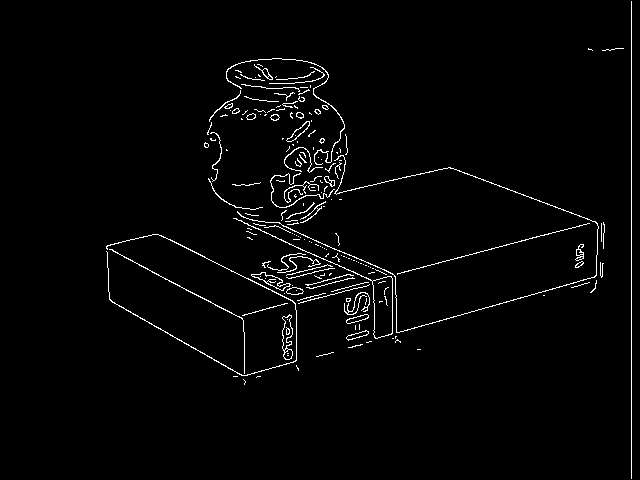
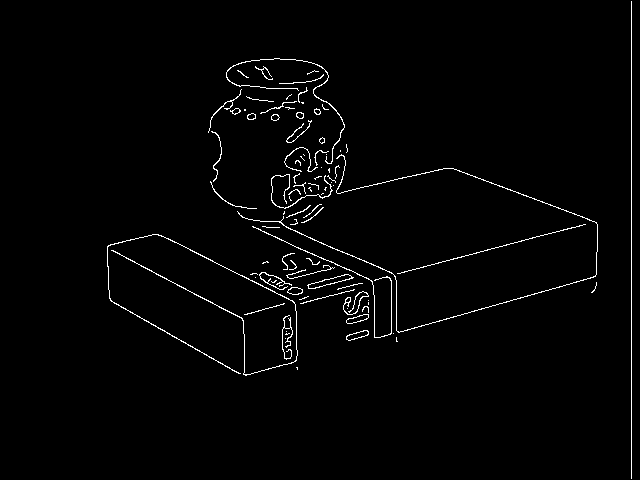
[tested] decent result

diff --git a/hw3_starter/Python/runHw3.py b/hw3_starter/Python/runHw3.py
@@ -9,8 +9,9 @@ from runTests import run_tests
 from skimage import filters, feature
 import matplotlib.pyplot as plt
 
-THETA_BIN_WID = 2 
-RHO_BIN_WID = 3
+THETA_BIN_WID = 1
+RHO_BIN_WID = 1
+hough_threshold = [60, 50, 50];
 
 def runHw3():
     # runHw3 is the "main" interface that lets you execute all the 
@@ -68,7 +69,11 @@ def challenge1a():
         gray_img = img.convert('L')
         # Apply edge detection to grayscale image
         gray_img = np.array(gray_img)
-        edge_img = feature.canny(gray_img, sigma=1, low_threshold=20, high_threshold=23)
+        # Sobel edge detection
+        # thresh = 0.05
+        # edge_img = filters.sobel(gray_img) > thresh
+        # edge_img = feature.canny(gray_img, sigma=1, low_threshold=20, high_threshold=23)
+        edge_img = feature.canny(gray_img, sigma=2, low_threshold=0.08*np.max(gray_img), high_threshold=0.1*np.max(gray_img))
         
         # Save the edge detected image
         edge_img = Image.fromarray((edge_img * 255).astype(np.uint8))
@@ -81,35 +86,79 @@ def challenge1b():
 
     img_list = ['hough_1.png', 'hough_2.png', 'hough_3.png']
 
-    theta_num_bins = int(180/THETA_BIN_WID )
-
+    theta_num_bins = int(360/THETA_BIN_WID )
+    
+    def scale_min_max(image, part_size):
+        a, b = part_size
+        # Calculate the number of parts along each dimension
+        num_parts_x = image.shape[0] // a
+        num_parts_y = image.shape[1] // b
+        
+        # Initialize the scaled image
+        scaled_image = np.zeros_like(image)
+        
+        for i in range(num_parts_x):
+            for j in range(num_parts_y):
+                # Extract the current part
+                part = image[i*a:(i+1)*a, j*b:(j+1)*b]
+                
+                # Find the min and max values in the current part
+                min_val = np.min(part)
+                max_val = np.max(part)
+                
+                # Avoid division by zero in case min_val == max_val
+                if min_val == max_val:
+                    scaled_part = np.zeros_like(part)
+                else:
+                    # Scale the part
+                    scaled_part = (part - min_val) / (max_val - min_val) * 255
+                
+                # Place the scaled part back into the scaled image
+                scaled_image[i*a:(i+1)*a, j*b:(j+1)*b] = scaled_part
+        
+        return scaled_image
+    
     for i, fn in enumerate(img_list):
         # Load the edge image from challenge1a
         img = Image.open(f'outputs/edge_{fn}')
         img = np.array(img.convert('L'))  # Convert the image to grayscale
         rho_num_bins = int((np.shape(img)[0]**2 + np.shape(img)[1]**2)**(0.5)/RHO_BIN_WID)
         hough_accumulator = generateHoughAccumulator(img, theta_num_bins, rho_num_bins)
-
+        
         # We'd like to save the hough accumulator array as an image 
         # to visualize it. The values should be between 0 and 255 and 
         # the data type should be uint8.
+
+        h2 = np.where(hough_accumulator > hough_threshold[i], hough_accumulator, 0)
+        # h2 = hough_accumulator > hough_threshold[i]
+        # h2  = h2*250
+        
         hough_accumulator = Image.fromarray(hough_accumulator.astype(np.uint8))
         hough_accumulator.save(f'outputs/accumulator_{fn}')
+       
+        part_size = (int(h2.shape[0]/40),int(h2.shape[1]/20))  # Size of the parts to split into
+        
+        scaled_image = scale_min_max(h2, part_size)
+        
+        scaled_image = Image.fromarray(scaled_image.astype(np.uint8))
+        scaled_image.save(f'outputs/h2_{fn}')
 
 def challenge1c():
     from hw3_challenge1 import lineFinder
 
     img_list = ['hough_1.png', 'hough_2.png', 'hough_3.png']
 
-    hough_threshold = [110, 100, 150];
+    hough_threshold = [252, 230, 230];
 
     for i, fn in enumerate(img_list):
         orig_img = Image.open(f"data/{fn}")
         orig_img = np.array(orig_img.convert('L'))  
 
-        hough_img = Image.open(f'outputs/accumulator_{fn}')
+        # hough_img = Image.open(f'outputs/accumulator_{fn}')        
+        hough_img = Image.open(f'outputs/h2_{fn}')
         hough_img = np.array(hough_img.convert('L'))
-
+        
+        
         line_img = lineFinder(orig_img, hough_img, hough_threshold[i])
         line_img.save(f'outputs/line_{fn}')
 
@@ -126,7 +175,8 @@ def challenge1d():
         edge_img = Image.open(f'outputs/edge_{fn}')
         edge_img = np.array(edge_img.convert('L'))  # Convert the image to grayscale
         
-        hough_img = Image.open(f'outputs/accumulator_{fn}')
+        
+        hough_img = Image.open(f'outputs/h2_{fn}')
         hough_img = np.array(hough_img.convert('L'))  # Convert the image to grayscale
 
         line_segement_img = lineSegmentFinder(orig_img, edge_img, hough_img, hough_threshold[i])

diff --git a/hw3_starter/Python/hw3_challenge1.py b/hw3_starter/Python/hw3_challenge1.py
@@ -1,8 +1,8 @@
 from PIL import Image, ImageDraw
 import numpy as np
 
-THETA_BIN_WID = 2 
-RHO_BIN_WID = 3
+THETA_BIN_WID = 1
+RHO_BIN_WID = 1
 
 def generateHoughAccumulator(edge_image: np.ndarray, theta_num_bins: int, rho_num_bins: int) -> np.ndarray:
     '''
@@ -14,11 +14,13 @@ def generateHoughAccumulator(edge_image: np.ndarray, theta_num_bins: int, rho_nu
     Returns:
         hough_accumulator: the Hough accumulator array.
     '''
-    hough_accumulator = np.zeros((rho_num_bins, theta_num_bins), dtype=np.uint8)
+    hough_accumulator = np.zeros((rho_num_bins, theta_num_bins))
     
     nRow = np.shape(edge_image)[0] # x
     nCol = np.shape(edge_image)[1] # y
     
+    hRow = np.shape(hough_accumulator)[0]
+    hCol = np.shape(hough_accumulator)[1]
     
     
     for r in range(nRow):
@@ -26,12 +28,26 @@ def generateHoughAccumulator(edge_image: np.ndarray, theta_num_bins: int, rho_nu
             if edge_image[r][c] == 255:
                 # rho = (r**2 + c**2)**(0.5)
                 # theta = np.arccos(r/rho) * (180/np.pi)
-                for t in range(0, 180, THETA_BIN_WID):
+                for t in range(0, 360, THETA_BIN_WID):
                     # rho = r*np.sin(t) - c*np.cos(t)
                     rho = c*np.sin(t*np.pi/180) + r*np.cos(t*np.pi/180)
-                    hough_accumulator[int(rho/RHO_BIN_WID), int(t/THETA_BIN_WID)] += 1
-                
+                    rho_index = int(rho / RHO_BIN_WID)
+                    theta_index = int(t / THETA_BIN_WID)
+                    # voter = np.array([[1.0, 1.0, 1.0, 1.0, 1.0],[1.0, 2.0, 2.0, 2.0, 1.0],[1.0, 2.0, 15, 2.0, 1.0],[1.0, 2.0, 2.0, 2.0, 1.0],[1.0, 1.0, 1.0, 1.0, 1.0]])
+                    voter = np.array([[0.06, 0.06, 0.06,],[0.06, 0.9, 0.06],[0.06, 0.06, 0.06]])
+                    # voter = np.ones((5,5))
+                    px, py = rho_index-int(voter.shape[0]/2), theta_index-int(voter.shape[1]/2)
+                    
+                    # Check bounds
+                    if px >= 0 and py >= 0 and px+voter.shape[0] <= hough_accumulator.shape[0] and py+voter.shape[1] <= hough_accumulator.shape[1]:
+                        hough_accumulator[px:px+voter.shape[0], py:py+voter.shape[1]] += voter
+                    elif 0 <= rho_index < hough_accumulator.shape[0] and 0 <= theta_index < hough_accumulator.shape[1]:
+                        # If the voter matrix can't be fully applied, fall back to incrementing the center bin
+                        hough_accumulator[rho_index, theta_index] += 1
+
+                    # hough_accumulator[int(rho/RHO_BIN_WID), int(t/THETA_BIN_WID)] += 1
     maxAcc = np.max(hough_accumulator)
+    print(maxAcc)
     hough_accumulator = hough_accumulator * (255/maxAcc)
     return hough_accumulator
     raise NotImplementedError
@@ -49,8 +65,9 @@ def lineFinder(orig_img: np.ndarray, hough_img: np.ndarray, hough_threshold: flo
 
     '''
     hough_im2 = hough_img > hough_threshold
+    
     hough_peaks_r,hough_peaks_c = np.where(hough_im2 > 0)
-
+    print(zip(hough_peaks_r,hough_peaks_c))
     line_img = Image.fromarray(orig_img.astype(np.uint8)).convert('RGB')
     draw = ImageDraw.Draw(line_img)
     
@@ -58,16 +75,19 @@ def lineFinder(orig_img: np.ndarray, hough_img: np.ndarray, hough_threshold: flo
     width = np.shape(orig_img)[1] 
 
     for r, t in zip(hough_peaks_r,hough_peaks_c):
-        rho = (r*RHO_BIN_WID)
+        if r == 0 :
+            rho = ((r)*RHO_BIN_WID)
+        else:
+            rho = ((r)*RHO_BIN_WID)
         if t == 0:
             t = 1
-        theta = (np.pi/180)*(t*THETA_BIN_WID)
+        theta = (np.pi/180)*((t)*THETA_BIN_WID)
         xp0, yp0, xp1, yp1 =  rho/np.sin(theta), 0, 0, rho/np.cos(theta)
         if yp1 < 0: #r' is negative
             xp1, yp1 =  (rho-height*np.cos(theta))/np.sin(theta), height
         if xp0 < 0:
             xp0, yp0 =  (rho-height*np.cos(theta))/np.sin(theta), height
-        print(rho,theta*180/np.pi)
+        # print(rho,theta*180/np.pi)
         draw.line((xp0, yp0, xp1, yp1), fill=128)
         # draw.line((-100, yp0, 600, 1200), fill=128)
     
